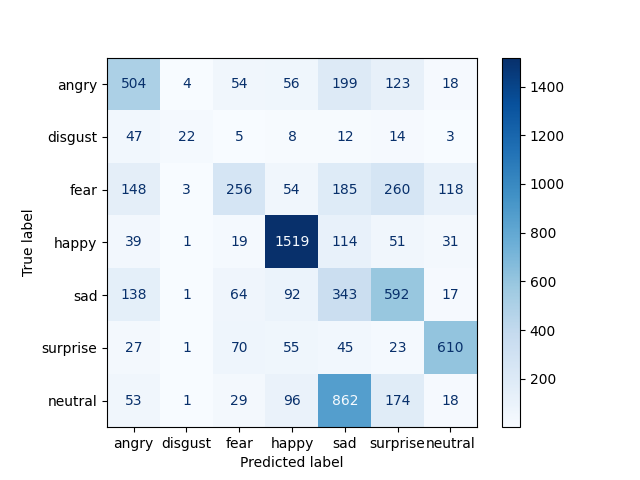
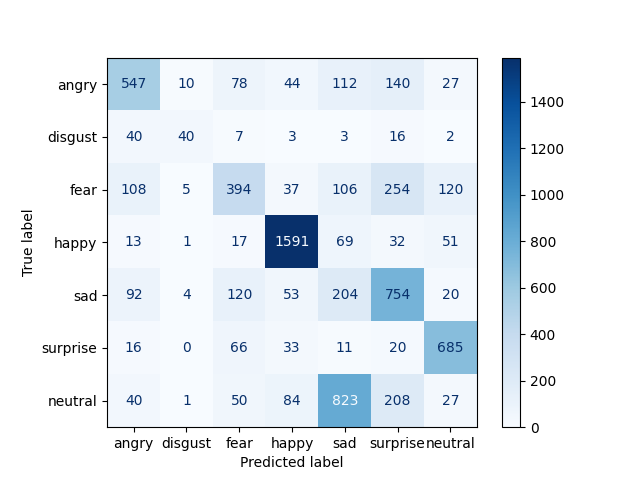
Update script for generating confusion matrix, upload new confusion matrix

diff --git a/confusion_matrix/confusion_matrix.py b/confusion_matrix/confusion_matrix.py
@@ -1,10 +1,13 @@
 import os
+import sys
 import cv2
 import numpy as np
 import torch
 from sklearn.metrics import confusion_matrix, ConfusionMatrixDisplay
 import matplotlib.pyplot as plt
 import torchvision.transforms as transforms
+
+sys.path.append(os.path.abspath(os.path.join(os.path.dirname(__file__), '..')))
 from Net import Net
 
 def load_test_data(test_dir):
@@ -64,13 +67,13 @@ def evaluate_model(model, test_images, test_labels):
     plt.show()
 
 # Load the model
-filepath = 'emotion_v3.pth'  # Path to the model file
+filepath = '../model_checkpoint.pth'  # Path to the model file
 model = Net()
 model.load_state_dict(torch.load(filepath))
 model.eval()
 
 # Load test data
-test_dir = 'fer2013/test' 
+test_dir = '../fer2013/test' 
 test_images, test_labels = load_test_data(test_dir)
 
 # Evaluate the model and generate confusion matrix
